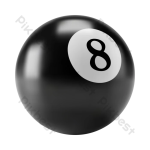
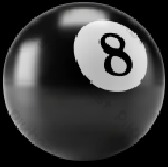
Add files via upload

diff --git a/index.html b/index.html
@@ -65,7 +65,10 @@
         <table class="comprasDesignBolas">
             <tr>
 
-                <th>Bolas:</th>
+                <th><h1>Bolas:</h1></th>
+            </tr>
+            <tr>
+                <th><h3>Cores</h3></th>
             </tr>
             <tr>
                 <td>
@@ -86,6 +89,8 @@
                     <h6>10 pontos</h6>
                     <button class="botaoComprarBola botao" onclick="comprarBola('comprarBolaVermelha', 'rgb(255, 0, 0, 1)', 10, '')" id="comprarBolaVermelha">Comprar</button>
                 </td>
+            </tr>
+            <tr>
                 <td>
                     <div id="bolaVerde"></div>
                     <p>Verde</p>
@@ -103,6 +108,83 @@
                     <p>Laranja</p>
                     <h6>15 pontos</h6>
                     <button class="botaoComprarBola botao" onclick="comprarBola('comprarBolaLaranja', 'rgb(255, 165, 0)', 15, '')" id="comprarBolaLaranja">Comprar</button>
+                </td>
+            </tr>
+            <tr>
+                <th><h3>Imagens</h3></th>
+            </tr>
+            <tr>
+                <td>
+                    <div id="bolaBaseball"></div>
+                    <p>Baseball</p>
+                    <h6>30 pontos</h6>
+                    <button class="botaoComprarBola" onclick="comprarBola('comprarBolaBaseball', '', 30, '../imagem/bola/bolaBaseball.png ')" 
+                    id="comprarBolaBaseball">
+                        Comprar
+                    </button>
+                </td>
+                <td>
+                    <div id="bolaBasquete"></div>
+                    <p>Basquete</p>
+                    <h6>30 pontos</h6>
+                    <button class="botaoComprarBola" onclick="comprarBola('comprarBolaBasquete', '', 30, '../imagem/bola/bolaBasquete.png')" 
+                    id="comprarBolaBasquete">
+                        Comprar
+                    </button>
+                </td>
+                <td>
+                    <div id="bolaBoliche"></div>
+                    <p>Boliche</p>
+                    <h6>30 pontos</h6>
+                    <button class="botaoComprarBola" onclick="comprarBola('comprarBolaBoliche', '', 30, '../imagem/bola/bolaBoliche.png')" 
+                    id="comprarBolaBoliche">
+                        Comprar
+                    </button>
+                </td>
+                <td>
+                    <div id="bolaFutebol"></div>
+                    <p>Futebol</p>
+                    <h6>30 pontos</h6>
+                    <button class="botaoComprarBola" onclick="comprarBola('comprarBolaFutebol', '', 30, '../imagem/bola/bolaFutebol.png')" 
+                    id="comprarBolaFutebol">
+                        Comprar
+                    </button>
+                </td>
+                <td>
+                    <div id="bolaGolfe"></div>
+                    <p>Golfe</p>
+                    <h6>30 pontos</h6>
+                    <button class="botaoComprarBola" onclick="comprarBola('comprarBolaGolfe', '', 30, '../imagem/bola/bolaGolfe.png')" 
+                    id="comprarBolaGolfe">
+                        Comprar
+                    </button>
+                </td>
+                <td>
+                    <div id="bolaSinuca"></div>
+                    <p>Sinuca</p>
+                    <h6>30 pontos</h6>
+                    <button class="botaoComprarBola" onclick="comprarBola('comprarBolaSinuca', '', 30, '../imagem/bola/bolaSinuca.png')" 
+                    id="comprarBolaSinuca">
+                        Comprar
+                    </button>
+                </td>
+                <td>
+                    <div id="bolaTennis"></div>
+                    <p>Tennis</p>
+                    <h6>30 pontos</h6>
+                    <button class="botaoComprarBola" onclick="comprarBola('comprarBolaTennis', '', 30, '../imagem/bola/bolaTennis.png')" 
+                    id="comprarBolaTennis">
+                        Comprar
+                    </button>
+                </td>
+                <td>
+                    <div id="bolaVolei"></div>
+                    <p>Vôlei</p>
+                    <h6>30 pontos</h6>
+                    <button class="botaoComprarBola" onclick="comprarBola('comprarBolaVolei', '', 30, '../imagem/bola/bolaVolei.png ')" 
+                    id="comprarBolaVolei">
+                        Comprar
+                    </button>
                 </td>
             </tr>
             <!-- <tr><th>a</th></tr>

diff --git a/css/loja.css b/css/loja.css
@@ -44,6 +44,7 @@ tr{
     justify-content: center;
     gap: 50px;
     flex-wrap: wrap;
+    margin-top: 10px;
 }
 td{
     padding: 10px;
@@ -56,17 +57,10 @@ tr td div{
     clip-path: circle(40%);
     margin-left: auto;
     margin-right: auto;
-    /* display: flex; */
+    background-size: cover;
     gap: 100px;
-    /* gap: 40px; */
-    /* padding: 0px 30px; */
 }
 
-/* #bolinha img{
-    position: relative;
-    margin-right: auto;
-    margin-bottom: auto;
-} */
 /* produtos */
 #bolaAzul{
     background-color: rgb(0, 0, 255);
@@ -85,4 +79,29 @@ tr td div{
 }
 #bolaLaranja{
     background-color: rgb(255, 165, 0);
+}
+/* ------------------------ */
+#bolaBaseball{
+    background-image: url("../imagem/bola/bolaBaseball.png");   
+}
+#bolaBasquete{
+    background-image: url("../imagem/bola/bolaBasquete.png");
+}
+#bolaBoliche{
+    background-image: url("../imagem/bola/bolaBoliche.png");
+}
+#bolaFutebol{
+    background-image: url("../imagem/bola/bolaFutebol.png");
+}
+#bolaGolfe{
+    background-image: url("../imagem/bola/bolaGolfe.png");
+}
+#bolaSinuca{
+    background-image: url("../imagem/bola/bolaSinuca.png");
+}
+#bolaTennis{
+    background-image: url("../imagem/bola/bolaTennis.png");
+}
+#bolaVolei{
+    background-image: url("../imagem/bola/bolaVolei.png");
 }

diff --git a/script/loja.js b/script/loja.js
@@ -9,7 +9,7 @@ function corBola(cor, id, img){
         bolinha.style.backgroundColor = cor
     }
     if(img != ''){
-        document.getElementById('imagemBola').src = img
+        document.getElementById('imgBola').src = img
     }
 }
 

diff --git a/script/script.js b/script/script.js
@@ -4,7 +4,7 @@ const elementPontuacao = document.getElementById("pontuacao")
 let jogando = false
 let marcou = true
 
-let pontuacao = 100
+let pontuacao = 1000
 var jaAcicionou = false
 var tempo = 1500
 var intervalo;
